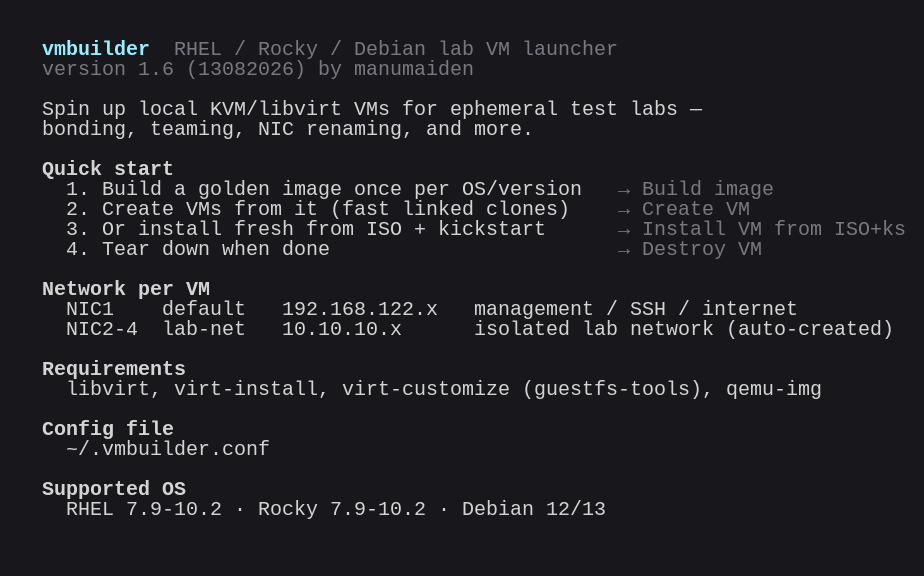
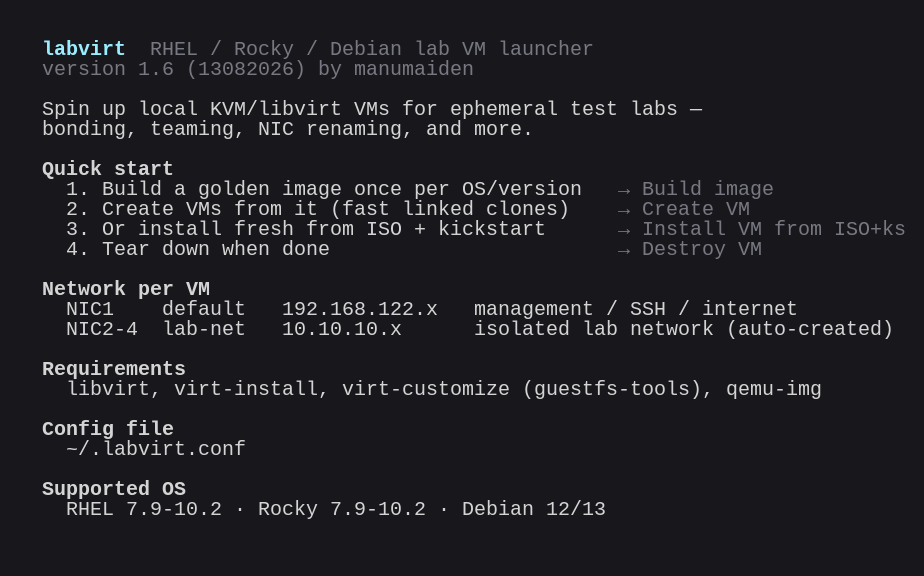
labvirt: rename vmbuilder.py and all internal references
Second half of the vmbuilder -> labvirt rename: vmbuilder.py ->
labvirt.py, CLI prog name, version strings, TUI header, ~/.vmbuilder.conf
-> ~/.labvirt.conf, install.sh symlink/paths, README/CLAUDE.md, and
regenerated screenshots (the old name was baked into the pixels).

Existing ~/.vmbuilder.conf on this machine needs a manual one-time
`mv ~/.vmbuilder.conf ~/.labvirt.conf` — no auto-migration written for
a single-user config file.

Changed region(s): [[0.0303, 0.0625, 0.6667, 0.0938], [0.0909, 0.75, 0.303, 0.8125]]

diff --git a/labvirt.py b/labvirt.py
@@ -1,5 +1,5 @@
 #!/usr/bin/env python3
-"""vmbuilder — RHEL / Rocky / Debian lab VM launcher"""
+"""labvirt — RHEL / Rocky / Debian lab VM launcher"""
 
 import os
 import sys
@@ -21,7 +21,7 @@ __build_date__ = "13082026"
 
 # resolve() before parent so symlinks in ~/bin point back to the real project dir
 SCRIPT_DIR      = Path(__file__).resolve().parent
-USER_CONFIG     = Path.home() / ".vmbuilder.conf"
+USER_CONFIG     = Path.home() / ".labvirt.conf"
 DEFAULT_CONFIG  = SCRIPT_DIR / "configs" / "lab.conf"
 CONFIG_FILE     = USER_CONFIG if USER_CONFIG.exists() else DEFAULT_CONFIG
 
@@ -139,7 +139,7 @@ def menu(title, options, hint="", descriptions=None):
     selected = selectable[0]
     while True:
         sys.stdout.write("\033[2J\033[H")
-        print(f"\n  {C.BOLD}{C.CYAN}vmbuilder{C.RST}  "
+        print(f"\n  {C.BOLD}{C.CYAN}labvirt{C.RST}  "
               f"{C.DIM}RHEL · Rocky · Debian lab launcher{C.RST}")
         print(f"  {C.DIM}version {__version__} ({__build_date__}) by manumaiden{C.RST}")
         print(f"  {C.DIM}{'─' * 50}{C.RST}\n")
@@ -271,7 +271,7 @@ def _ensure_lab_net(cfg):
                 </dhcp>
               </ip>
             </network>""")
-        xml_path = Path("/tmp/vmbuilder-lab-net.xml")
+        xml_path = Path("/tmp/labvirt-lab-net.xml")
         xml_path.write_text(xml)
         run(["virsh", "net-define",    str(xml_path)], sudo=True)
         run(["virsh", "net-start",     cfg["LAB_NET"]], sudo=True)
@@ -365,7 +365,7 @@ def create_vm(os_name, version, vm_name, ram, vcpus, cfg):
 
     if not _exists(base_image):
         err(f"Golden image not found: {base_image}")
-        err(f"Run: ./vmbuilder.py build --os {os_name} --version {version} --src <path>")
+        err(f"Run: ./labvirt.py build --os {os_name} --version {version} --src <path>")
         sys.exit(1)
 
     if virsh("dominfo", vm_name).returncode == 0:
@@ -744,7 +744,7 @@ def list_kickstarts(cfg):
 
 def show_about(cfg):
     print()
-    print(f"  {C.BOLD}{C.CYAN}vmbuilder{C.RST}  {C.DIM}RHEL / Rocky / Debian lab VM launcher{C.RST}")
+    print(f"  {C.BOLD}{C.CYAN}labvirt{C.RST}  {C.DIM}RHEL / Rocky / Debian lab VM launcher{C.RST}")
     print(f"  {C.DIM}version {__version__} ({__build_date__}) by manumaiden{C.RST}")
     print()
     print("  Spin up local KVM/libvirt VMs for ephemeral test labs —")
@@ -1018,16 +1018,16 @@ def interactive_main(cfg):
         ("Quit",                                 "quit"),
     ]
     descriptions = {
-        "build":      "vmbuilder build --os <os> --version <ver> --src <path>",
-        "create":     "vmbuilder create --os <os> --version <ver> --name <name>",
-        "ks-test":    "vmbuilder ks-test --os <os> --version <ver> --iso <iso> --ks <ks> --name <name>",
-        "destroy":    "vmbuilder destroy <name>",
-        "list":       "vmbuilder list",
-        "images":     "vmbuilder images",
-        "sources":    "vmbuilder sources",
-        "isos":       "vmbuilder isos",
-        "kickstarts": "vmbuilder kickstarts",
-        "about":      "vmbuilder about",
+        "build":      "labvirt build --os <os> --version <ver> --src <path>",
+        "create":     "labvirt create --os <os> --version <ver> --name <name>",
+        "ks-test":    "labvirt ks-test --os <os> --version <ver> --iso <iso> --ks <ks> --name <name>",
+        "destroy":    "labvirt destroy <name>",
+        "list":       "labvirt list",
+        "images":     "labvirt images",
+        "sources":    "labvirt sources",
+        "isos":       "labvirt isos",
+        "kickstarts": "labvirt kickstarts",
+        "about":      "labvirt about",
     }
     while True:
         action = menu("Main menu", actions, _main_menu_hint(cfg), descriptions)
@@ -1061,11 +1061,11 @@ def interactive_main(cfg):
 # ── CLI ───────────────────────────────────────────────────────────────────────
 
 def cli_main(cfg):
-    ap  = argparse.ArgumentParser(prog="vmbuilder.py",
+    ap  = argparse.ArgumentParser(prog="labvirt.py",
                                   description="RHEL/Rocky/Debian lab VM launcher")
     ap.add_argument(
         "-v", "--version", action="version",
-        version=f"vmbuilder version {__version__} ({__build_date__}) by manumaiden",
+        version=f"labvirt version {__version__} ({__build_date__}) by manumaiden",
     )
     sub = ap.add_subparsers(dest="cmd")
 

diff --git a/README.md b/README.md
@@ -1,4 +1,4 @@
-# vmbuilder
+# labvirt
 
 [![License: MIT](https://img.shields.io/badge/License-MIT-yellow.svg)](LICENSE)
 
@@ -6,7 +6,7 @@
 
 Testing bonding, NIC teaming, or network configs usually means either burning
 cloud credits or hand-holding `virt-install` through a dozen flags every
-time. `vmbuilder` turns that into two commands: provision a golden image
+time. `labvirt` turns that into two commands: provision a golden image
 once, then spin up disposable VMs — each pre-wired with a 4-NIC lab topology
 (1 management + 3 isolated) — in under a minute, from an interactive menu or
 straight from the CLI. Built for local KVM/libvirt lab work: quick,
@@ -33,7 +33,7 @@ throwaway VMs you build, break, and destroy without ceremony.
 Arrow-key navigation, grouped sections, live status, and the CLI command
 shown next to the highlighted item:
 
-![vmbuilder main menu](docs/screenshots/menu-demo.gif)
+![labvirt main menu](docs/screenshots/menu-demo.gif)
 
 ## Supported OS
 
@@ -54,13 +54,13 @@ shown next to the highlighted item:
 ## Installation
 
 ```bash
-git clone https://github.com/manumaiden/vmbuilder.git
-cd vmbuilder
+git clone https://github.com/manumaiden/labvirt.git
+cd labvirt
 ./install.sh
 source ~/.bashrc   # first time only, if ~/bin wasn't already in PATH
 ```
 
-Creates a `~/bin/vmbuilder` → `vmbuilder.py` symlink. After installation the
+Creates a `~/bin/labvirt` → `labvirt.py` symlink. After installation the
 command is available from any directory.
 
 ## Usage
@@ -68,7 +68,7 @@ command is available from any directory.
 ### Interactive menu
 
 ```bash
-vmbuilder
+labvirt
 ```
 
 Navigate with arrow keys ↑↓, Enter to select, `q` to quit. The main menu is
@@ -77,7 +77,7 @@ count + active config path), and displays the equivalent CLI command next to
 the currently highlighted item. The "About" entry shows a quick-start
 reference without leaving the menu:
 
-![vmbuilder about screen](docs/screenshots/about.png)
+![labvirt about screen](docs/screenshots/about.png)
 
 After `create` or `ks-test` finishes and the management IP is detected, you're
 asked `Connect via SSH now? [Y/n]` — confirming waits (up to 90s) for sshd to
@@ -88,43 +88,43 @@ right in the same terminal.
 
 ```bash
 # Step 1 — Build the golden image (once per OS version)
-vmbuilder build --os rocky  --version 9.8  --src ~/downloads/Rocky-9.8-x86_64.qcow2
-vmbuilder build --os rhel   --version 9.8  --src ~/downloads/rhel-9.8-x86_64.qcow2
-vmbuilder build --os debian --version 12   --src ~/downloads/debian-12-amd64.qcow2
+labvirt build --os rocky  --version 9.8  --src ~/downloads/Rocky-9.8-x86_64.qcow2
+labvirt build --os rhel   --version 9.8  --src ~/downloads/rhel-9.8-x86_64.qcow2
+labvirt build --os debian --version 12   --src ~/downloads/debian-12-amd64.qcow2
 
 # Step 2 — Create a VM
-vmbuilder create --os rocky --version 9.8 --name testlab-01
-vmbuilder create --os rhel  --version 8.10 --name rhel-test --ram 4096 --vcpus 4
+labvirt create --os rocky --version 9.8 --name testlab-01
+labvirt create --os rhel  --version 8.10 --name rhel-test --ram 4096 --vcpus 4
 
 # Fresh install from ISO + kickstart (without a golden image)
-vmbuilder ks-test --os rocky --version 9.8 \
+labvirt ks-test --os rocky --version 9.8 \
   --iso ~/isos/Rocky-9.8-x86_64-dvd.iso \
   --ks kickstarts/ks_rocky9.cfg \
   --name ks-rocky9
 
 # List VMs (with management IP for running VMs)
-vmbuilder list
+labvirt list
 
 # List golden images in ORIGINAL_DIR
-vmbuilder images
+labvirt images
 
 # List raw qcow2 source images in SOURCES_DIR
-vmbuilder sources
+labvirt sources
 
 # List ISO files in KS_ISO_DIR
-vmbuilder isos
+labvirt isos
 
 # List kickstart files in KS_PATH
-vmbuilder kickstarts
+labvirt kickstarts
 
 # Destroy a VM
-vmbuilder destroy testlab-01
+labvirt destroy testlab-01
 
 # Quick-start reference
-vmbuilder about
+labvirt about
 
 # Show version
-vmbuilder --version
+labvirt --version
 ```
 
 ## What gets applied to golden images (build)
@@ -169,7 +169,7 @@ doesn't exist yet.
 ```bash
 export RHSM_USER="user"
 export RHSM_PASS="password"
-vmbuilder create --os rhel --version 9.8 --name rhel-test
+labvirt create --os rhel --version 9.8 --name rhel-test
 ```
 
 With these variables set, registration and installation of `bash-completion`
@@ -177,7 +177,7 @@ and `vim` run automatically via SSH after boot.
 
 ## Configuration
 
-`install.sh` automatically copies the config to `~/.vmbuilder.conf` on first
+`install.sh` automatically copies the config to `~/.labvirt.conf` on first
 install. Make all changes there — the file in the repo (`configs/lab.conf`)
 stays untouched even after a `git pull`.
 
@@ -221,10 +221,10 @@ KS_DISK_SIZE=20
 
 ### Config lookup
 
-1. `~/.vmbuilder.conf` — user config (created by `install.sh`)
+1. `~/.labvirt.conf` — user config (created by `install.sh`)
 2. `<repo>/configs/lab.conf` — fallback/template
 
-This is a **whole-file selection, not a per-key merge**: if `~/.vmbuilder.conf`
+This is a **whole-file selection, not a per-key merge**: if `~/.labvirt.conf`
 exists, it is read in full and `configs/lab.conf` is not consulted at all —
 even for keys missing from the user config. Any variable without a hardcoded
 fallback in the code (e.g. `MGMT_NET`, `LAB_NET*`, `ROOT_PASSWORD`) must be
@@ -245,15 +245,15 @@ The script uses `sudo` internally for all privileged operations:
 - `virt-install` / `virt-customize` — provisioning
 - `mkdir` / `cp` / `rm` — storage path operations
 
-You do not need to run `vmbuilder` with `sudo` — the prefix is added
+You do not need to run `labvirt` with `sudo` — the prefix is added
 automatically where needed.
 
 ## Project structure
 
 ```
-vmbuilder/
-├── vmbuilder.py        # Single entry point (TUI menu + CLI)
-├── install.sh          # Installs vmbuilder into ~/bin, creates ~/.vmbuilder.conf
+labvirt/
+├── labvirt.py        # Single entry point (TUI menu + CLI)
+├── install.sh          # Installs labvirt into ~/bin, creates ~/.labvirt.conf
 ├── configs/
 │   └── lab.conf        # Configuration template (do not edit directly)
 ├── kickstarts/
@@ -278,7 +278,7 @@ registered in the United States and other countries. Rocky Linux is a
 trademark of the Rocky Enterprise Software Foundation. Debian is a trademark
 of Software in the Public Interest, Inc. This is an independent, unofficial
 project — it is not affiliated with, sponsored by, or endorsed by any of the
-above. `vmbuilder` never downloads, bundles, or redistributes any OS
+above. `labvirt` never downloads, bundles, or redistributes any OS
 installation media — you provide your own qcow2 images / ISOs, obtained
 directly from the respective vendor under your own account and license
 terms.
